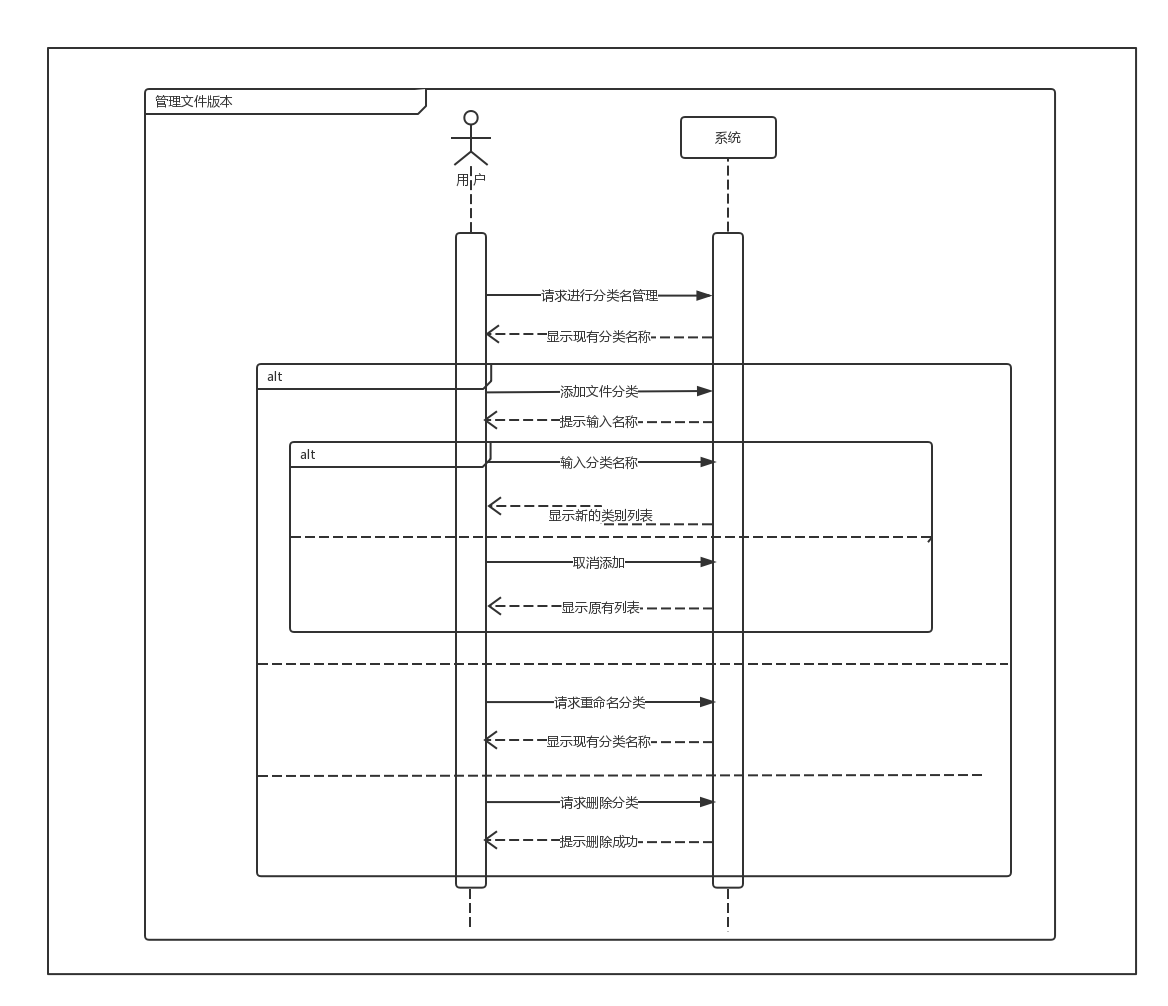
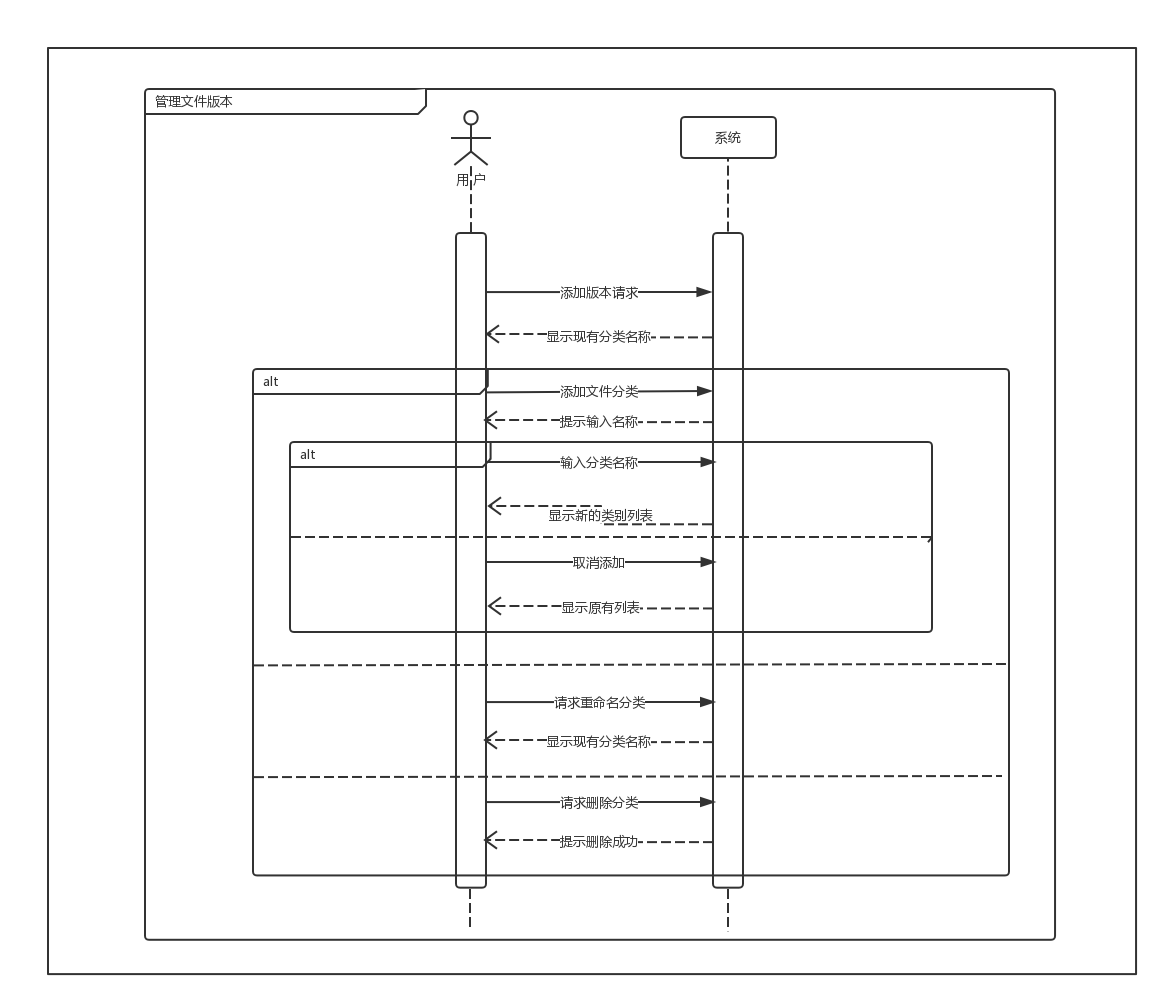
commit

Changed region(s): [[0.2158, 0.339, 0.863, 0.8936], [0.863, 0.3698, 0.8938, 0.8628], [0.4315, 0.2773, 0.6164, 0.3082]]

diff --git a/uc修改文件分类.md b/uc修改文件分类.md
@@ -1,0 +1,1 @@
+![](/img/顺序图/修改文件分类.png)
